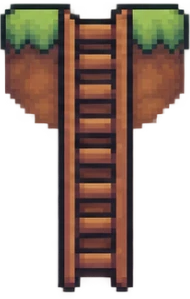
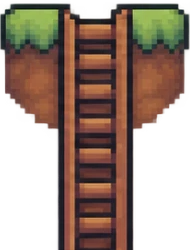
Make the descent ladder match the platform ladder
- Main ladder tile is now cut from the ladder-through-platform piece
  itself (same rungs, spacing and dark backing), so the whole ladder
  is one consistent drawing
- Platform piece trimmed at a rung boundary, and each floor snaps to
  the 17.5px rung rhythm so the rungs continue with no seam

Claude-Session: https://claude.ai/code/session_01RciFSwXBH3HYJLfugmoq2a

diff --git a/css/style.css b/css/style.css
@@ -943,9 +943,9 @@ a.pcard:hover .pcard__go svg { transform: translateX(4px); }
   position: absolute; top: 0; z-index: 4; width: 42px; pointer-events: none;
   left: calc((100% - var(--max)) / 2 - 54px);
 }
-.descent__ladder { position: absolute; inset: 0; background: url("../assets/images/game/ladder-tile.webp") repeat-y 0 0 / 42px 29px; }
+.descent__ladder { position: absolute; inset: 0; background: url("../assets/images/game/ladder-tile.webp") repeat-y 2px 0 / 39px 17.5px; }
 /* Floor = Anvita's ladder-through-platform piece, at the same scale as the ladder tile so the rails line up */
-.descent__floor { position: absolute; left: -26px; width: 95px; height: 150px; background: url("../assets/images/game/ladder-entry.webp") 0 0 / 100% 100%; }
+.descent__floor { position: absolute; left: -26px; width: 95px; height: 125px; background: url("../assets/images/game/ladder-entry.webp") 0 0 / 100% 100%; }
 .descent__block { position: absolute; left: 0; top: -27px; width: 28px; height: 29px; background: url("../assets/images/game/bulb-block.webp") 0 0 / 100% 100%; }
 .descent__block.is-bumped { animation: block-bump .35s var(--ease-standard); }
 @keyframes block-bump { 40% { transform: translateY(-10px); } }

diff --git a/about.html b/about.html
@@ -18,7 +18,7 @@
   <link rel="preconnect" href="https://fonts.googleapis.com" />
   <link rel="preconnect" href="https://fonts.gstatic.com" crossorigin />
   <link href="https://fonts.googleapis.com/css2?family=Inter:wght@400;500;600;700&family=Pixelify+Sans:wght@500;600;700&display=swap" rel="stylesheet" />
-  <link rel="stylesheet" href="css/style.css?v=20261028210206" />
+  <link rel="stylesheet" href="css/style.css?v=20261028210430" />
   <script>document.documentElement.classList.add("js")</script>
 </head>
 <body data-root="">
@@ -374,6 +374,6 @@
     <form method="dialog"><button class="btn btn--secondary btn--sm">Close</button></form>
   </dialog>
   <script src="js/vendor/matter.min.js"></script>
-  <script src="js/main.js?v=20261028210129"></script>
+  <script src="js/main.js?v=20261028210430"></script>
 </body>
 </html>

diff --git a/projects/ar-medicine-scanner.html b/projects/ar-medicine-scanner.html
@@ -18,7 +18,7 @@
   <link rel="preconnect" href="https://fonts.googleapis.com" />
   <link rel="preconnect" href="https://fonts.gstatic.com" crossorigin />
   <link href="https://fonts.googleapis.com/css2?family=Inter:wght@400;500;600;700&family=Pixelify+Sans:wght@500;600;700&display=swap" rel="stylesheet" />
-  <link rel="stylesheet" href="../css/style.css?v=20261028210206" />
+  <link rel="stylesheet" href="../css/style.css?v=20261028210430" />
   <script>document.documentElement.classList.add("js")</script>
 </head>
 <body data-root="../">
@@ -226,6 +226,6 @@
     <form method="dialog"><button class="btn btn--secondary btn--sm">Close</button></form>
   </dialog>
 
-  <script src="../js/main.js?v=20261028210129"></script>
+  <script src="../js/main.js?v=20261028210430"></script>
 </body>
 </html>

diff --git a/projects/cultura.html b/projects/cultura.html
@@ -18,7 +18,7 @@
   <link rel="preconnect" href="https://fonts.googleapis.com" />
   <link rel="preconnect" href="https://fonts.gstatic.com" crossorigin />
   <link href="https://fonts.googleapis.com/css2?family=Inter:wght@400;500;600;700&family=Pixelify+Sans:wght@500;600;700&display=swap" rel="stylesheet" />
-  <link rel="stylesheet" href="../css/style.css?v=20261028210206" />
+  <link rel="stylesheet" href="../css/style.css?v=20261028210430" />
   <script>document.documentElement.classList.add("js")</script>
 </head>
 <body data-root="../">
@@ -217,6 +217,6 @@
     <form method="dialog"><button class="btn btn--secondary btn--sm">Close</button></form>
   </dialog>
 
-  <script src="../js/main.js?v=20261028210129"></script>
+  <script src="../js/main.js?v=20261028210430"></script>
 </body>
 </html>

diff --git a/projects/custodians-of-memory.html b/projects/custodians-of-memory.html
@@ -18,7 +18,7 @@
   <link rel="preconnect" href="https://fonts.googleapis.com" />
   <link rel="preconnect" href="https://fonts.gstatic.com" crossorigin />
   <link href="https://fonts.googleapis.com/css2?family=Inter:wght@400;500;600;700&family=Pixelify+Sans:wght@500;600;700&display=swap" rel="stylesheet" />
-  <link rel="stylesheet" href="../css/style.css?v=20261028210206" />
+  <link rel="stylesheet" href="../css/style.css?v=20261028210430" />
   <script>document.documentElement.classList.add("js")</script>
 </head>
 <body data-root="../">
@@ -267,6 +267,6 @@
     <form method="dialog"><button class="btn btn--secondary btn--sm">Close</button></form>
   </dialog>
 
-  <script src="../js/main.js?v=20261028210129"></script>
+  <script src="../js/main.js?v=20261028210430"></script>
 </body>
 </html>

diff --git a/projects/love-after-life.html b/projects/love-after-life.html
@@ -18,7 +18,7 @@
   <link rel="preconnect" href="https://fonts.googleapis.com" />
   <link rel="preconnect" href="https://fonts.gstatic.com" crossorigin />
   <link href="https://fonts.googleapis.com/css2?family=Inter:wght@400;500;600;700&family=Pixelify+Sans:wght@500;600;700&display=swap" rel="stylesheet" />
-  <link rel="stylesheet" href="../css/style.css?v=20261028210206" />
+  <link rel="stylesheet" href="../css/style.css?v=20261028210430" />
   <script>document.documentElement.classList.add("js")</script>
 </head>
 <body data-root="../">
@@ -218,6 +218,6 @@
     <form method="dialog"><button class="btn btn--secondary btn--sm">Close</button></form>
   </dialog>
 
-  <script src="../js/main.js?v=20261028210129"></script>
+  <script src="../js/main.js?v=20261028210430"></script>
 </body>
 </html>

diff --git a/projects/the-echo.html b/projects/the-echo.html
@@ -18,7 +18,7 @@
   <link rel="preconnect" href="https://fonts.googleapis.com" />
   <link rel="preconnect" href="https://fonts.gstatic.com" crossorigin />
   <link href="https://fonts.googleapis.com/css2?family=Inter:wght@400;500;600;700&family=Pixelify+Sans:wght@500;600;700&display=swap" rel="stylesheet" />
-  <link rel="stylesheet" href="../css/style.css?v=20261028210206" />
+  <link rel="stylesheet" href="../css/style.css?v=20261028210430" />
   <script>document.documentElement.classList.add("js")</script>
 </head>
 <body data-root="../">
@@ -212,6 +212,6 @@
     <form method="dialog"><button class="btn btn--secondary btn--sm">Close</button></form>
   </dialog>
 
-  <script src="../js/main.js?v=20261028210129"></script>
+  <script src="../js/main.js?v=20261028210430"></script>
 </body>
 </html>

diff --git a/projects/vow.html b/projects/vow.html
@@ -18,7 +18,7 @@
   <link rel="preconnect" href="https://fonts.googleapis.com" />
   <link rel="preconnect" href="https://fonts.gstatic.com" crossorigin />
   <link href="https://fonts.googleapis.com/css2?family=Inter:wght@400;500;600;700&family=Pixelify+Sans:wght@500;600;700&display=swap" rel="stylesheet" />
-  <link rel="stylesheet" href="../css/style.css?v=20261028210206" />
+  <link rel="stylesheet" href="../css/style.css?v=20261028210430" />
   <script>document.documentElement.classList.add("js")</script>
 </head>
 <body data-root="../">
@@ -323,6 +323,6 @@
     <form method="dialog"><button class="btn btn--secondary btn--sm">Close</button></form>
   </dialog>
 
-  <script src="../js/main.js?v=20261028210129"></script>
+  <script src="../js/main.js?v=20261028210430"></script>
 </body>
 </html>

diff --git a/projects/vr-esports-research.html b/projects/vr-esports-research.html
@@ -18,7 +18,7 @@
   <link rel="preconnect" href="https://fonts.googleapis.com" />
   <link rel="preconnect" href="https://fonts.gstatic.com" crossorigin />
   <link href="https://fonts.googleapis.com/css2?family=Inter:wght@400;500;600;700&family=Pixelify+Sans:wght@500;600;700&display=swap" rel="stylesheet" />
-  <link rel="stylesheet" href="../css/style.css?v=20261028210206" />
+  <link rel="stylesheet" href="../css/style.css?v=20261028210430" />
   <script>document.documentElement.classList.add("js")</script>
 </head>
 <body data-root="../">
@@ -231,6 +231,6 @@
     <form method="dialog"><button class="btn btn--secondary btn--sm">Close</button></form>
   </dialog>
 
-  <script src="../js/main.js?v=20261028210129"></script>
+  <script src="../js/main.js?v=20261028210430"></script>
 </body>
 </html>

diff --git a/index.html b/index.html
@@ -19,7 +19,7 @@
   <link rel="preconnect" href="https://fonts.googleapis.com" />
   <link rel="preconnect" href="https://fonts.gstatic.com" crossorigin />
   <link href="https://fonts.googleapis.com/css2?family=Inter:wght@400;500;600;700&family=Pixelify+Sans:wght@500;600;700&display=swap" rel="stylesheet" />
-  <link rel="stylesheet" href="css/style.css?v=20261028210206" />
+  <link rel="stylesheet" href="css/style.css?v=20261028210430" />
   <script>document.documentElement.classList.add("js")</script>
 </head>
 <body data-root="">
@@ -249,6 +249,6 @@
     <form method="dialog"><button class="btn btn--secondary btn--sm">Close</button></form>
   </dialog>
 
-  <script src="js/main.js?v=20261028210129"></script>
+  <script src="js/main.js?v=20261028210430"></script>
 </body>
 </html>

diff --git a/projects.html b/projects.html
@@ -18,7 +18,7 @@
   <link rel="preconnect" href="https://fonts.googleapis.com" />
   <link rel="preconnect" href="https://fonts.gstatic.com" crossorigin />
   <link href="https://fonts.googleapis.com/css2?family=Inter:wght@400;500;600;700&family=Pixelify+Sans:wght@500;600;700&display=swap" rel="stylesheet" />
-  <link rel="stylesheet" href="css/style.css?v=20261028210206" />
+  <link rel="stylesheet" href="css/style.css?v=20261028210430" />
   <script>document.documentElement.classList.add("js")</script>
 </head>
 <body data-root="">
@@ -190,6 +190,6 @@
     <form method="dialog"><button class="btn btn--secondary btn--sm">Close</button></form>
   </dialog>
 
-  <script src="js/main.js?v=20261028210129"></script>
+  <script src="js/main.js?v=20261028210430"></script>
 </body>
 </html>

diff --git a/speedrun.html b/speedrun.html
@@ -18,7 +18,7 @@
   <link rel="preconnect" href="https://fonts.googleapis.com" />
   <link rel="preconnect" href="https://fonts.gstatic.com" crossorigin />
   <link href="https://fonts.googleapis.com/css2?family=Inter:wght@400;500;600;700&family=Pixelify+Sans:wght@500;600;700&display=swap" rel="stylesheet" />
-  <link rel="stylesheet" href="css/style.css?v=20261028210206" />
+  <link rel="stylesheet" href="css/style.css?v=20261028210430" />
   <script>document.documentElement.classList.add("js")</script>
 </head>
 <body data-root="">
@@ -220,6 +220,6 @@
     <form method="dialog"><button class="btn btn--secondary btn--sm">Close</button></form>
   </dialog>
 
-  <script src="js/main.js?v=20261028210129"></script>
+  <script src="js/main.js?v=20261028210430"></script>
 </body>
 </html>
